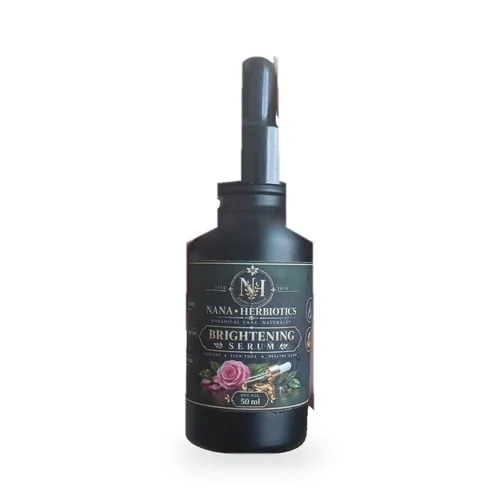
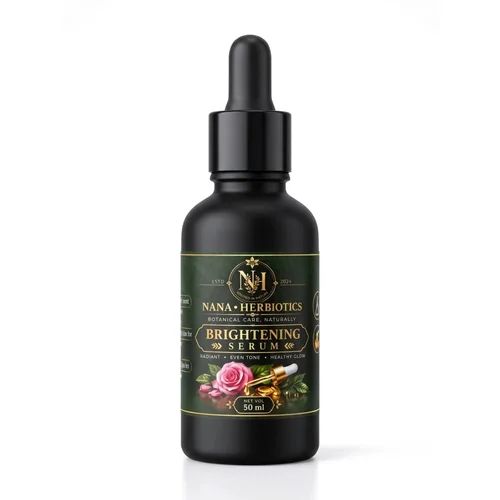
Use studio photo for the Brightening Serum

Changed region(s): [[0.36, 0.06, 0.66, 0.96]]

diff --git a/src/data/products.ts b/src/data/products.ts
@@ -95,7 +95,7 @@ export const products: Product[] = [
     ingredients: ['Rose', 'Botanical extracts'],
     badges: ['Radiant', 'Even tone', 'Healthy glow'],
     image: img('brightening-serum'),
-    alt: 'Nana Herbiotics Brightening Serum, 50 ml black dropper bottle with a rose on the label',
+    alt: 'Nana Herbiotics Brightening Serum, 50 ml matte black dropper bottle with a rose on the green and gold label',
   },
   {
     id: 'acne-soap',
